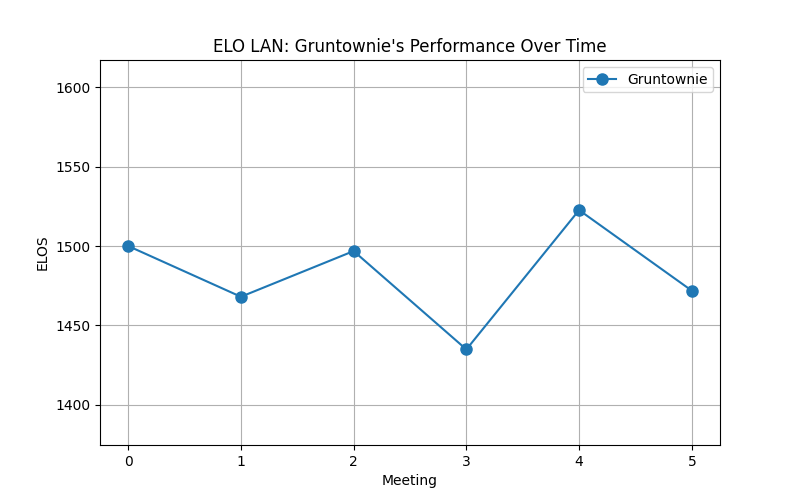
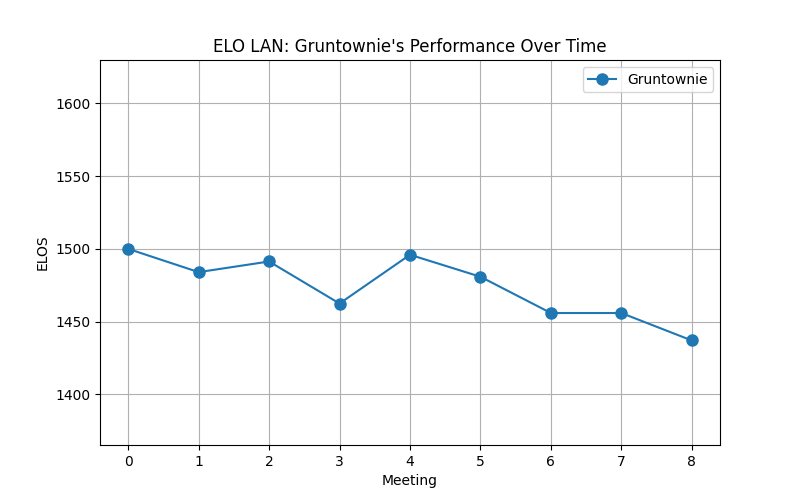
BACK LOG

diff --git a/Rounds.py b/Rounds.py
@@ -169,6 +169,7 @@ def calculate_games():
     Olus2000 = Player("Olus2000")
     Henader = Player("Henader")
     Coval = Player("Coval")
+    Beowulf = Player("Beowulf")
 
     # creating bye player
     BYE = Player("BYE")
@@ -257,6 +258,54 @@ def calculate_games():
     update_elo()
     round_summary()
 
+    # ---------------------------------------------------------------------------------------
+    # ROUND 6 12.11.2024
+
+    # ROUND 6 SET UP
+    round_set_up([Gruntownie, Olus2000, Staniach21, GivenToFly])
+
+    ## GAMES
+    Gruntownie.round_outcome = [(Staniach21, 0), (GivenToFly, 0), (Olus2000, 1), (Olus2000, 0)]
+    Olus2000.round_outcome = [(GivenToFly, 1), (Staniach21, 0), (Gruntownie, 0), (Gruntownie, 1)]
+    GivenToFly.round_outcome = [(Olus2000, 0), (Gruntownie, 1), (Staniach21, 0), (Staniach21, 1)]
+    Staniach21.round_outcome = [(Gruntownie, 1), (Olus2000, 1),(GivenToFly,1),(GivenToFly,0)]
+
+    ## update elo.
+    update_elo()
+    round_summary()
+
+    # ---------------------------------------------------------------------------------------
+    # ROUND 7 19.11.2024
+
+    # ROUND 7 SET UP
+    round_set_up([Olus2000, Staniach21, GivenToFly])
+
+    ## GAMES
+    GivenToFly.round_outcome = [(Staniach21, 1), (Olus2000, 0), (Staniach21, 0), (Olus2000, 1),(Staniach21,1)]
+    Olus2000.round_outcome = [(GivenToFly, 1), (Staniach21, 0), (GivenToFly, 0), (Staniach21, 1)]
+    Staniach21.round_outcome = [(GivenToFly, 0), (Olus2000, 1), (GivenToFly, 1), (Olus2000, 0),(GivenToFly,0)]
+
+    ## update elo.
+    update_elo()
+    round_summary()
+
+    # ---------------------------------------------------------------------------------------
+    # ROUND 8 3.12.2024
+
+    # ROUND 8 SET UP
+    round_set_up([Olus2000, Staniach21, GivenToFly,Gruntownie,Beowulf])
+
+    ## GAMES
+    GivenToFly.round_outcome = [(Gruntownie, 1), (Gruntownie, 1), (Olus2000, 0),(Beowulf, 0), (Staniach21, 1),(Beowulf, 0)]
+    Olus2000.round_outcome = [(GivenToFly, 1),(Gruntownie, 0),(Beowulf, 0), (Gruntownie, 1),(Staniach21, 1)]
+    Staniach21.round_outcome = [(GivenToFly, 0), (Olus2000, 0)]
+    Gruntownie.round_outcome = [(GivenToFly, 0), (GivenToFly, 0), (Olus2000, 1),(Olus2000, 0)]
+    Beowulf.round_outcome = [(GivenToFly, 1),(Olus2000, 1),(GivenToFly, 1)]
+
+
+    ## update elo.
+    update_elo()
+    round_summary()
 
     # ==============================================================================================================
     # FINAL PLAYER PRINT

diff --git a/tests/test_Game.py b/tests/test_Game.py
@@ -1,5 +1,6 @@
 from unittest import TestCase
-
+import sys
+sys.path.insert(1, 'Data_models')
 from poetry.repositories import Repository
 import sys
 from Data_models.Game import Game

diff --git a/Generate_raport.py b/Generate_raport.py
@@ -1,4 +1,5 @@
-from player import Player
+from Data_models.Player import Player
+from Copy_generator import copy_all_analysis
 FILE_PATH = "Analysis.md"
 from Rounds import *
 
